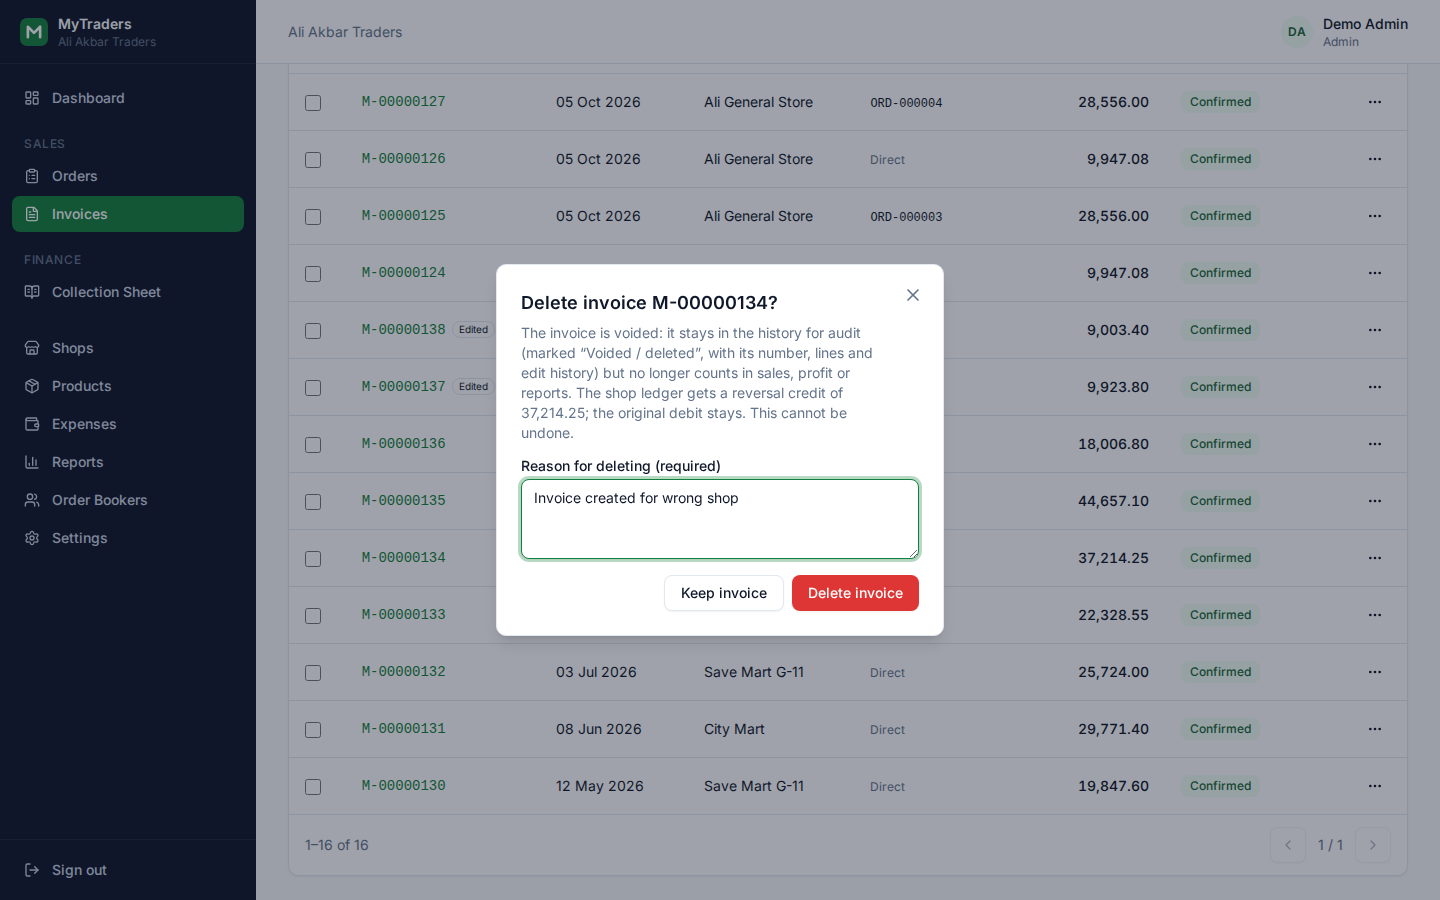
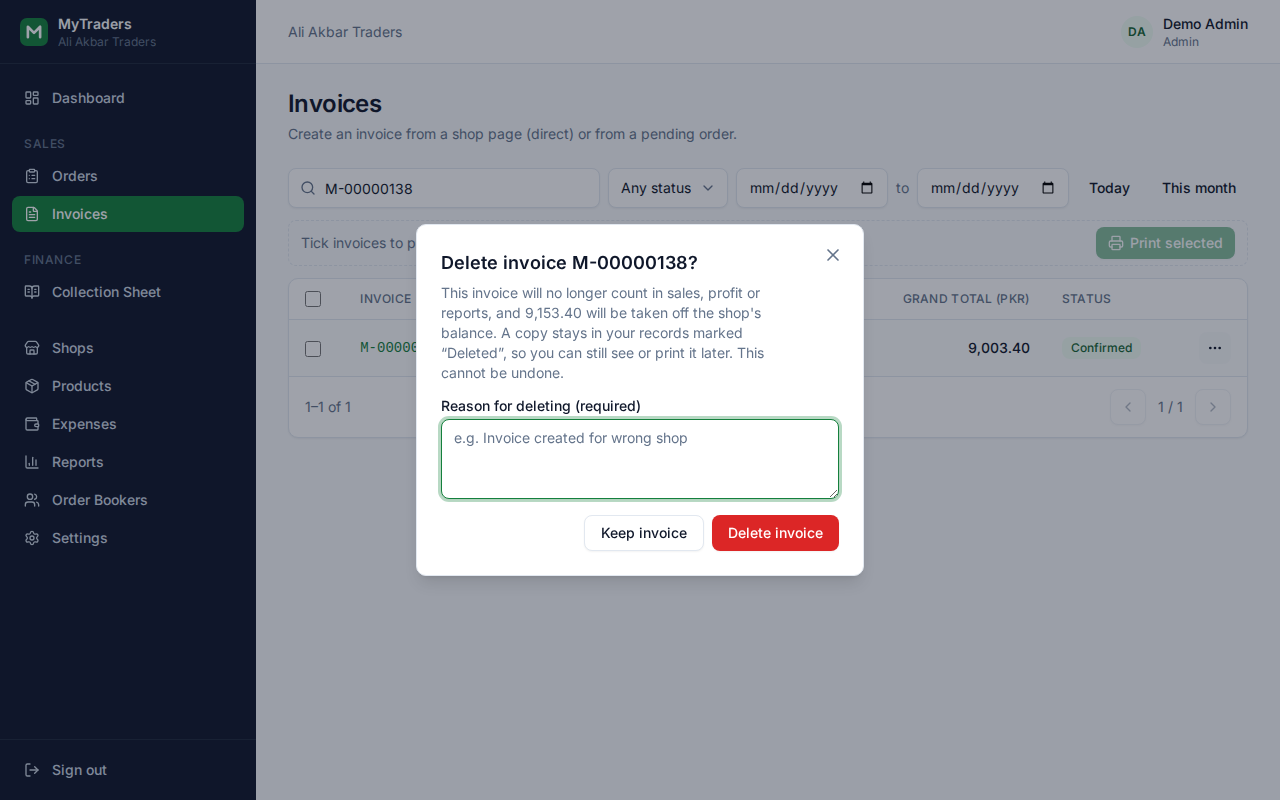
Invoices: plain-English wording for deleting an invoice
Users now see "Deleted" instead of technical terms like "voided", "reversal credit" or
"original debit": delete dialog, status badge and filter, row menu, banner, history,
ledger label, toast and messages. VOIDED stays as the internal status code.

Claude-Session: https://claude.ai/code/session_01XyjGgrZqM4xMfKAw4GLBcw

diff --git a/apps/web/src/features/invoices/pages/InvoiceDetailsPage.tsx b/apps/web/src/features/invoices/pages/InvoiceDetailsPage.tsx
@@ -56,11 +56,11 @@ function InvoiceView({ invoice }: { invoice: InvoiceDetails }) {
   const closedBanner =
     invoice.status === 'VOIDED'
       ? {
-          label: 'Deleted (voided)',
+          label: 'Deleted',
           at: invoice.voidedAt,
           by: invoice.voidedBy,
           reason: invoice.voidReason,
-          note: ' Kept for audit only — not counted in sales, profit or reports; its value was reversed in the shop ledger.',
+          note: ' It is kept for your records only: it does not count in sales, profit or reports, and its amount was taken off the shop’s balance.',
         }
       : invoice.status === 'CANCELLED'
         ? {
@@ -186,7 +186,7 @@ function InvoiceHistory({ invoice, timeZone }: { invoice: InvoiceDetails; timeZo
   if (invoice.cancelledAt) {
     events.push({
       key: 'cancelled',
-      action: 'Cancelled — value reversed in the shop ledger',
+      action: 'Cancelled — amount taken off the shop’s balance',
       tone: 'danger',
       at: invoice.cancelledAt,
       by: invoice.cancelledBy?.name ?? '',
@@ -196,7 +196,7 @@ function InvoiceHistory({ invoice, timeZone }: { invoice: InvoiceDetails; timeZo
   if (invoice.voidedAt) {
     events.push({
       key: 'voided',
-      action: 'Deleted (voided) — value reversed in the shop ledger',
+      action: 'Deleted — amount taken off the shop’s balance',
       tone: 'danger',
       at: invoice.voidedAt,
       by: invoice.voidedBy?.name ?? '',

diff --git a/apps/web/src/features/invoices/components/VoidInvoiceDialog.tsx b/apps/web/src/features/invoices/components/VoidInvoiceDialog.tsx
@@ -41,10 +41,10 @@ export function VoidInvoiceDialog({
         <DialogHeader>
           <DialogTitle>Delete invoice {invoice.invoiceNumber}?</DialogTitle>
           <DialogDescription>
-            The invoice is voided: it stays in the history for audit (marked “Voided / deleted”,
-            with its number, lines and edit history) but no longer counts in sales, profit or
-            reports. The shop ledger gets a reversal credit of {formatAmount(invoice.payableValue)};
-            the original debit stays. This cannot be undone.
+            This invoice will no longer count in sales, profit or reports, and{' '}
+            {formatAmount(invoice.payableValue)} will be taken off the shop&apos;s balance. A copy
+            stays in your records marked “Deleted”, so you can still see or print it later. This
+            cannot be undone.
           </DialogDescription>
         </DialogHeader>
         <div className="space-y-1.5">
@@ -79,7 +79,7 @@ export function VoidInvoiceDialog({
                 { id: invoice.id, reason: reason.trim() },
                 {
                   onSuccess: () => {
-                    toast.success(`Invoice ${invoice.invoiceNumber} deleted (voided)`);
+                    toast.success(`Invoice ${invoice.invoiceNumber} deleted`);
                     onClose();
                   },
                   onError: (err) => {

diff --git a/apps/api/test/invoice-void.e2e-spec.ts b/apps/api/test/invoice-void.e2e-spec.ts
@@ -151,7 +151,7 @@ describe('Invoice delete / void (e2e)', () => {
         invoice: { id: a.id, invoiceNumber: a.invoiceNumber },
       });
       expect(reversal.notes).toBe(
-        `Invoice ${a.invoiceNumber} deleted (voided): Invoice created for wrong shop`,
+        `Invoice ${a.invoiceNumber} deleted: Invoice created for wrong shop`,
       );
       // net effect of A is zero; only B remains owed
       expect(balance.outstandingBalance).toBe('500.00');
@@ -219,7 +219,7 @@ describe('Invoice delete / void (e2e)', () => {
         .set(auth(adminToken))
         .send({ invoiceDate: today, items: [line(1)], reason: 'Try again' })
         .expect(409);
-      expect(edit.body.message).toMatch(/deleted \(voided\) invoice cannot be edited/);
+      expect(edit.body.message).toMatch(/deleted invoice cannot be edited/);
       await http().get(`/api/invoices/${a.id}/edit-draft`).set(auth(adminToken)).expect(409);
       const again = await voidInvoice(a.id, { reason: 'Second time' }).expect(409);
       expect(again.body.message).toMatch(/already been deleted/);

diff --git a/apps/web/src/features/reports/pages/InvoiceReportPage.tsx b/apps/web/src/features/reports/pages/InvoiceReportPage.tsx
@@ -148,7 +148,7 @@ export function InvoiceReportPage() {
         d.totals.furtherTax,
         d.totals.adtDiscount,
         d.totals.payableValue,
-        `${d.cancelledCount} cancelled, ${d.voidedCount} voided not counted`,
+        `${d.cancelledCount} cancelled, ${d.voidedCount} deleted not counted`,
       ],
     ]);
 
@@ -205,7 +205,7 @@ export function InvoiceReportPage() {
             <p className="mt-2 text-xs text-muted-foreground">
               {[
                 data.cancelledCount > 0 && plural(data.cancelledCount, 'cancelled invoice'),
-                data.voidedCount > 0 && plural(data.voidedCount, 'voided (deleted) invoice'),
+                data.voidedCount > 0 && plural(data.voidedCount, 'deleted invoice'),
               ]
                 .filter(Boolean)
                 .join(' and ')}{' '}

diff --git a/apps/api/src/modules/invoices/invoices.service.ts b/apps/api/src/modules/invoices/invoices.service.ts
@@ -670,7 +670,7 @@ export class InvoicesService {
       if (count === 0) {
         throw new ConflictException(
           invoice.status === 'VOIDED'
-            ? 'This invoice has already been deleted (voided)'
+            ? 'This invoice has already been deleted'
             : 'This invoice is already cancelled',
         );
       }
@@ -689,7 +689,7 @@ export class InvoicesService {
 
 function assertEditable(status: string): void {
   if (status === 'VOIDED') {
-    throw new ConflictException('A deleted (voided) invoice cannot be edited');
+    throw new ConflictException('A deleted invoice cannot be edited');
   }
   if (status !== 'CONFIRMED') {
     throw new ConflictException('A cancelled invoice cannot be edited');

diff --git a/apps/web/src/features/invoices/pages/InvoicesPage.tsx b/apps/web/src/features/invoices/pages/InvoicesPage.tsx
@@ -232,7 +232,7 @@ export function InvoicesPage() {
           <option value="">Any status</option>
           <option value="CONFIRMED">Confirmed</option>
           <option value="CANCELLED">Cancelled</option>
-          <option value="VOIDED">Voided / deleted</option>
+          <option value="VOIDED">Deleted</option>
         </NativeSelect>
         <div className="flex flex-wrap items-center gap-2">
           <Input
@@ -489,7 +489,7 @@ function RowActions({
               </DropdownMenuItem>
               <DropdownMenuItem variant="destructive" onSelect={() => onVoid(invoice)}>
                 <Trash2 />
-                Delete (void)
+                Delete
               </DropdownMenuItem>
             </>
           )}

diff --git a/apps/web/src/features/invoices/components/InvoiceDocument.tsx b/apps/web/src/features/invoices/components/InvoiceDocument.tsx
@@ -20,7 +20,7 @@ export function InvoiceDocument({ invoice }: { invoice: InvoiceDetails }) {
       {cancelled && (
         <div className="pointer-events-none absolute inset-0 hidden items-center justify-center print:flex">
           <span className="-rotate-12 text-7xl font-bold text-destructive/20">
-            {invoice.status === 'VOIDED' ? 'VOID' : 'CANCELLED'}
+            {invoice.status === 'VOIDED' ? 'DELETED' : 'CANCELLED'}
           </span>
         </div>
       )}

diff --git a/apps/api/src/modules/ledger/shop-ledger.service.ts b/apps/api/src/modules/ledger/shop-ledger.service.ts
@@ -424,7 +424,7 @@ export class ShopLedgerService {
         creditAmount: money(owed),
         transactionDate: asDate(await this.today(tx)),
         invoiceId: invoice.id,
-        notes: `Invoice ${invoice.invoiceNumber} ${voiding ? 'deleted (voided)' : 'cancelled'}: ${reason}`,
+        notes: `Invoice ${invoice.invoiceNumber} ${voiding ? 'deleted' : 'cancelled'}: ${reason}`,
         createdById: userId,
       },
     });

diff --git a/packages/shared-types/src/ledger.ts b/packages/shared-types/src/ledger.ts
@@ -27,7 +27,7 @@ export const LEDGER_ENTRY_TYPE_LABELS: Record<LedgerEntryType, string> = {
   PAYMENT: 'Payment',
   MANUAL_ADJUSTMENT: 'Adjustment',
   INVOICE_REVERSAL: 'Invoice cancelled',
-  INVOICE_VOID_REVERSAL: 'Invoice deleted (voided)',
+  INVOICE_VOID_REVERSAL: 'Invoice deleted',
   INVOICE_EDIT_REVERSAL: 'Invoice edited — old value reversed',
   INVOICE_EDIT: 'Invoice edited — new value',
 };

diff --git a/packages/shared-types/src/invoices.ts b/packages/shared-types/src/invoices.ts
@@ -21,7 +21,7 @@ export type InvoiceStatus = (typeof InvoiceStatus)[keyof typeof InvoiceStatus];
 export const INVOICE_STATUS_LABELS: Record<InvoiceStatus, string> = {
   CONFIRMED: 'Confirmed',
   CANCELLED: 'Cancelled',
-  VOIDED: 'Voided / deleted',
+  VOIDED: 'Deleted',
 };
 
 export const INVOICE_MAX_LINES = 200;

diff --git a/docs/product-requirements.md b/docs/product-requirements.md
@@ -188,10 +188,10 @@ Full detail and formulas in [invoice-specification.md](./invoice-specification.m
   - **Audit**: every edit is an append-only *InvoiceRevision* (revision no., edited by, date / time, reason, previous and new values incl. every line); the invoice stores edit count, last edited at / by. The invoice view shows an **Edit history** (not printed).
   - **Ledger**: nothing is changed or deleted — the edit adds an `INVOICE_EDIT` debit of the new Payable Value and an `INVOICE_EDIT_REVERSAL` credit of the old one (edit day; none when the value is unchanged). Refused (409, nothing saved) when the shop's current balance would become negative (payments already cover more than the corrected invoice). One transaction with row locks on the invoice and the shop.
   - Dashboard, reports and profit read the invoice, so they show the corrected values immediately.
-- **Delete / void a confirmed invoice (D-42, Admin only)** — from the row actions menu or the invoice view, with a **required reason** and a confirmation dialog. Nothing is physically deleted: the invoice, its lines, snapshots, number, creation date and edit history stay; status becomes **VOIDED** ("Voided / deleted") with deleted by, date / time and reason. The ledger keeps the original debit (and any edit entries) and gets one `INVOICE_VOID_REVERSAL` credit of the invoice's current Payable Value, dated the delete day, referencing the invoice — net effect zero. Refused (409, nothing changed) when the shop's balance would become negative; the message says to resolve the payment / credit first. A voided invoice cannot be edited, cancelled or deleted again; it stays viewable and printable (printed with a VOID watermark).
+- **Delete / void a confirmed invoice (D-42, Admin only)** — from the row actions menu or the invoice view, with a **required reason** and a confirmation dialog. Nothing is physically deleted: the invoice, its lines, snapshots, number, creation date and edit history stay; status becomes **VOIDED** (shown to users simply as "Deleted" — no technical terms in the UI) with deleted by, date / time and reason. The ledger keeps the original debit (and any edit entries) and gets one `INVOICE_VOID_REVERSAL` credit of the invoice's current Payable Value, dated the delete day, referencing the invoice — net effect zero. Refused (409, nothing changed) when the shop's balance would become negative; the message says to resolve the payment / credit first. A voided invoice cannot be edited, cancelled or deleted again; it stays viewable and printable (printed with a DELETED watermark).
 - **Lifecycle history (D-41, D-42)**: the invoice view shows every event, newest first — created & confirmed, each edit (values before → after), cancelled, deleted (voided) — with user, date / time and reason. Kept permanently.
 - **Business figures**: sales, profit, product sales, dashboard (sales, weight, top shops), invoice totals count **CONFIRMED** invoices only, with their current (edited) values. Cancelled and voided invoices are listed in history / audit views (invoice list and invoice report with the status filter) but never counted. Their reversals update the Shop Ledger, Market Credit and the Collection Sheet.
-- **Invoice list (D-41, D-42)**: search (number / shop), status (Confirmed / Cancelled / Voided / deleted), invoice-date **From / To** with *Today* and *This month* shortcuts — all combined and kept in the URL; row actions menu View / Edit / Print / Cancel / Delete (void) (Edit / Cancel / Delete only for confirmed); checkboxes (header box selects only the visible page) and **Print selected** ("N invoices selected").
+- **Invoice list (D-41, D-42)**: search (number / shop), status (Confirmed / Cancelled / Deleted), invoice-date **From / To** with *Today* and *This month* shortcuts — all combined and kept in the URL; row actions menu View / Edit / Print / Cancel / Delete (Edit / Cancel / Delete only for confirmed); checkboxes (header box selects only the visible page) and **Print selected** ("N invoices selected").
 - **Bulk printing (D-41)**: the selected invoices in the normal invoice template, one invoice per A4 page, no blank last page, a single print dialog (`/invoices/print?ids=`).
 - Printable layout (A4 landscape) from the invoice view: browser print / save as PDF.
 - Shop details lists the shop's invoice history (number, date, grand total, status → open the invoice).

diff --git a/docs/frontend-guidelines.md b/docs/frontend-guidelines.md
@@ -90,9 +90,9 @@ Both load `GET /invoices/draft`. Full page (not a dialog): header card (shop, pr
 
 Editing (D-41): `/invoices/:id/edit` opens the same `InvoiceForm` with `GET /invoices/:id/edit-draft` (`draft.edit` set; lines carry their saved `values`); *Save changes* asks for the required reason in the confirmation dialog and calls `PUT /invoices/:id`.
 
-Invoice list `/invoices`: search, status, From / To + *Today* / *This month*, all in the URL (`?q&status&from&to&page`); checkboxes (header box = visible page only), selection bar "N invoices selected" + *Print selected* → `/invoices/print?ids=` (`InvoicesPrintPage`: `GET /invoices/batch`, each invoice in `InvoiceDocument` inside `.invoice-page` with `break-after: page` except the last, `window.print()` once); row actions menu (`DropdownMenu`, non-modal so a dialog opened from it never leaves the page unclickable) View / Edit / Print / Cancel / Delete (void) — Edit, Cancel, Delete only for confirmed invoices; status filter Confirmed / Cancelled / Voided / deleted (grey badge). Delete opens `VoidInvoiceDialog` (reason required).
+Invoice list `/invoices`: search, status, From / To + *Today* / *This month*, all in the URL (`?q&status&from&to&page`); checkboxes (header box = visible page only), selection bar "N invoices selected" + *Print selected* → `/invoices/print?ids=` (`InvoicesPrintPage`: `GET /invoices/batch`, each invoice in `InvoiceDocument` inside `.invoice-page` with `break-after: page` except the last, `window.print()` once); row actions menu (`DropdownMenu`, non-modal so a dialog opened from it never leaves the page unclickable) View / Edit / Print / Cancel / Delete — Edit, Cancel, Delete only for confirmed invoices; status filter Confirmed / Cancelled / Deleted (grey badge). Delete opens `VoidInvoiceDialog` (reason required).
 
-Invoice view `/invoices/:id` (`InvoiceDocument`) is also the print layout (print CSS: A4 landscape, app chrome hidden via `print:hidden`, cost never shown, blank optional rows omitted), with Edit / Cancel / Delete for a confirmed invoice, a banner for cancelled / voided ones (who / when / why) and the **History** card (created & confirmed, edits with before → after, cancelled, deleted; not printed). A voided invoice prints with a VOID watermark. Shop details shows the shop's invoice history.
+Invoice view `/invoices/:id` (`InvoiceDocument`) is also the print layout (print CSS: A4 landscape, app chrome hidden via `print:hidden`, cost never shown, blank optional rows omitted), with Edit / Cancel / Delete for a confirmed invoice, a banner for cancelled / voided ones (who / when / why) and the **History** card (created & confirmed, edits with before → after, cancelled, deleted; not printed). A voided invoice prints with a DELETED watermark. Shop details shows the shop's invoice history.
 
 Wide tables inside `overflow-x-auto` must also be `relative`, otherwise absolutely positioned children (e.g. `sr-only` labels) widen the whole page.
 
